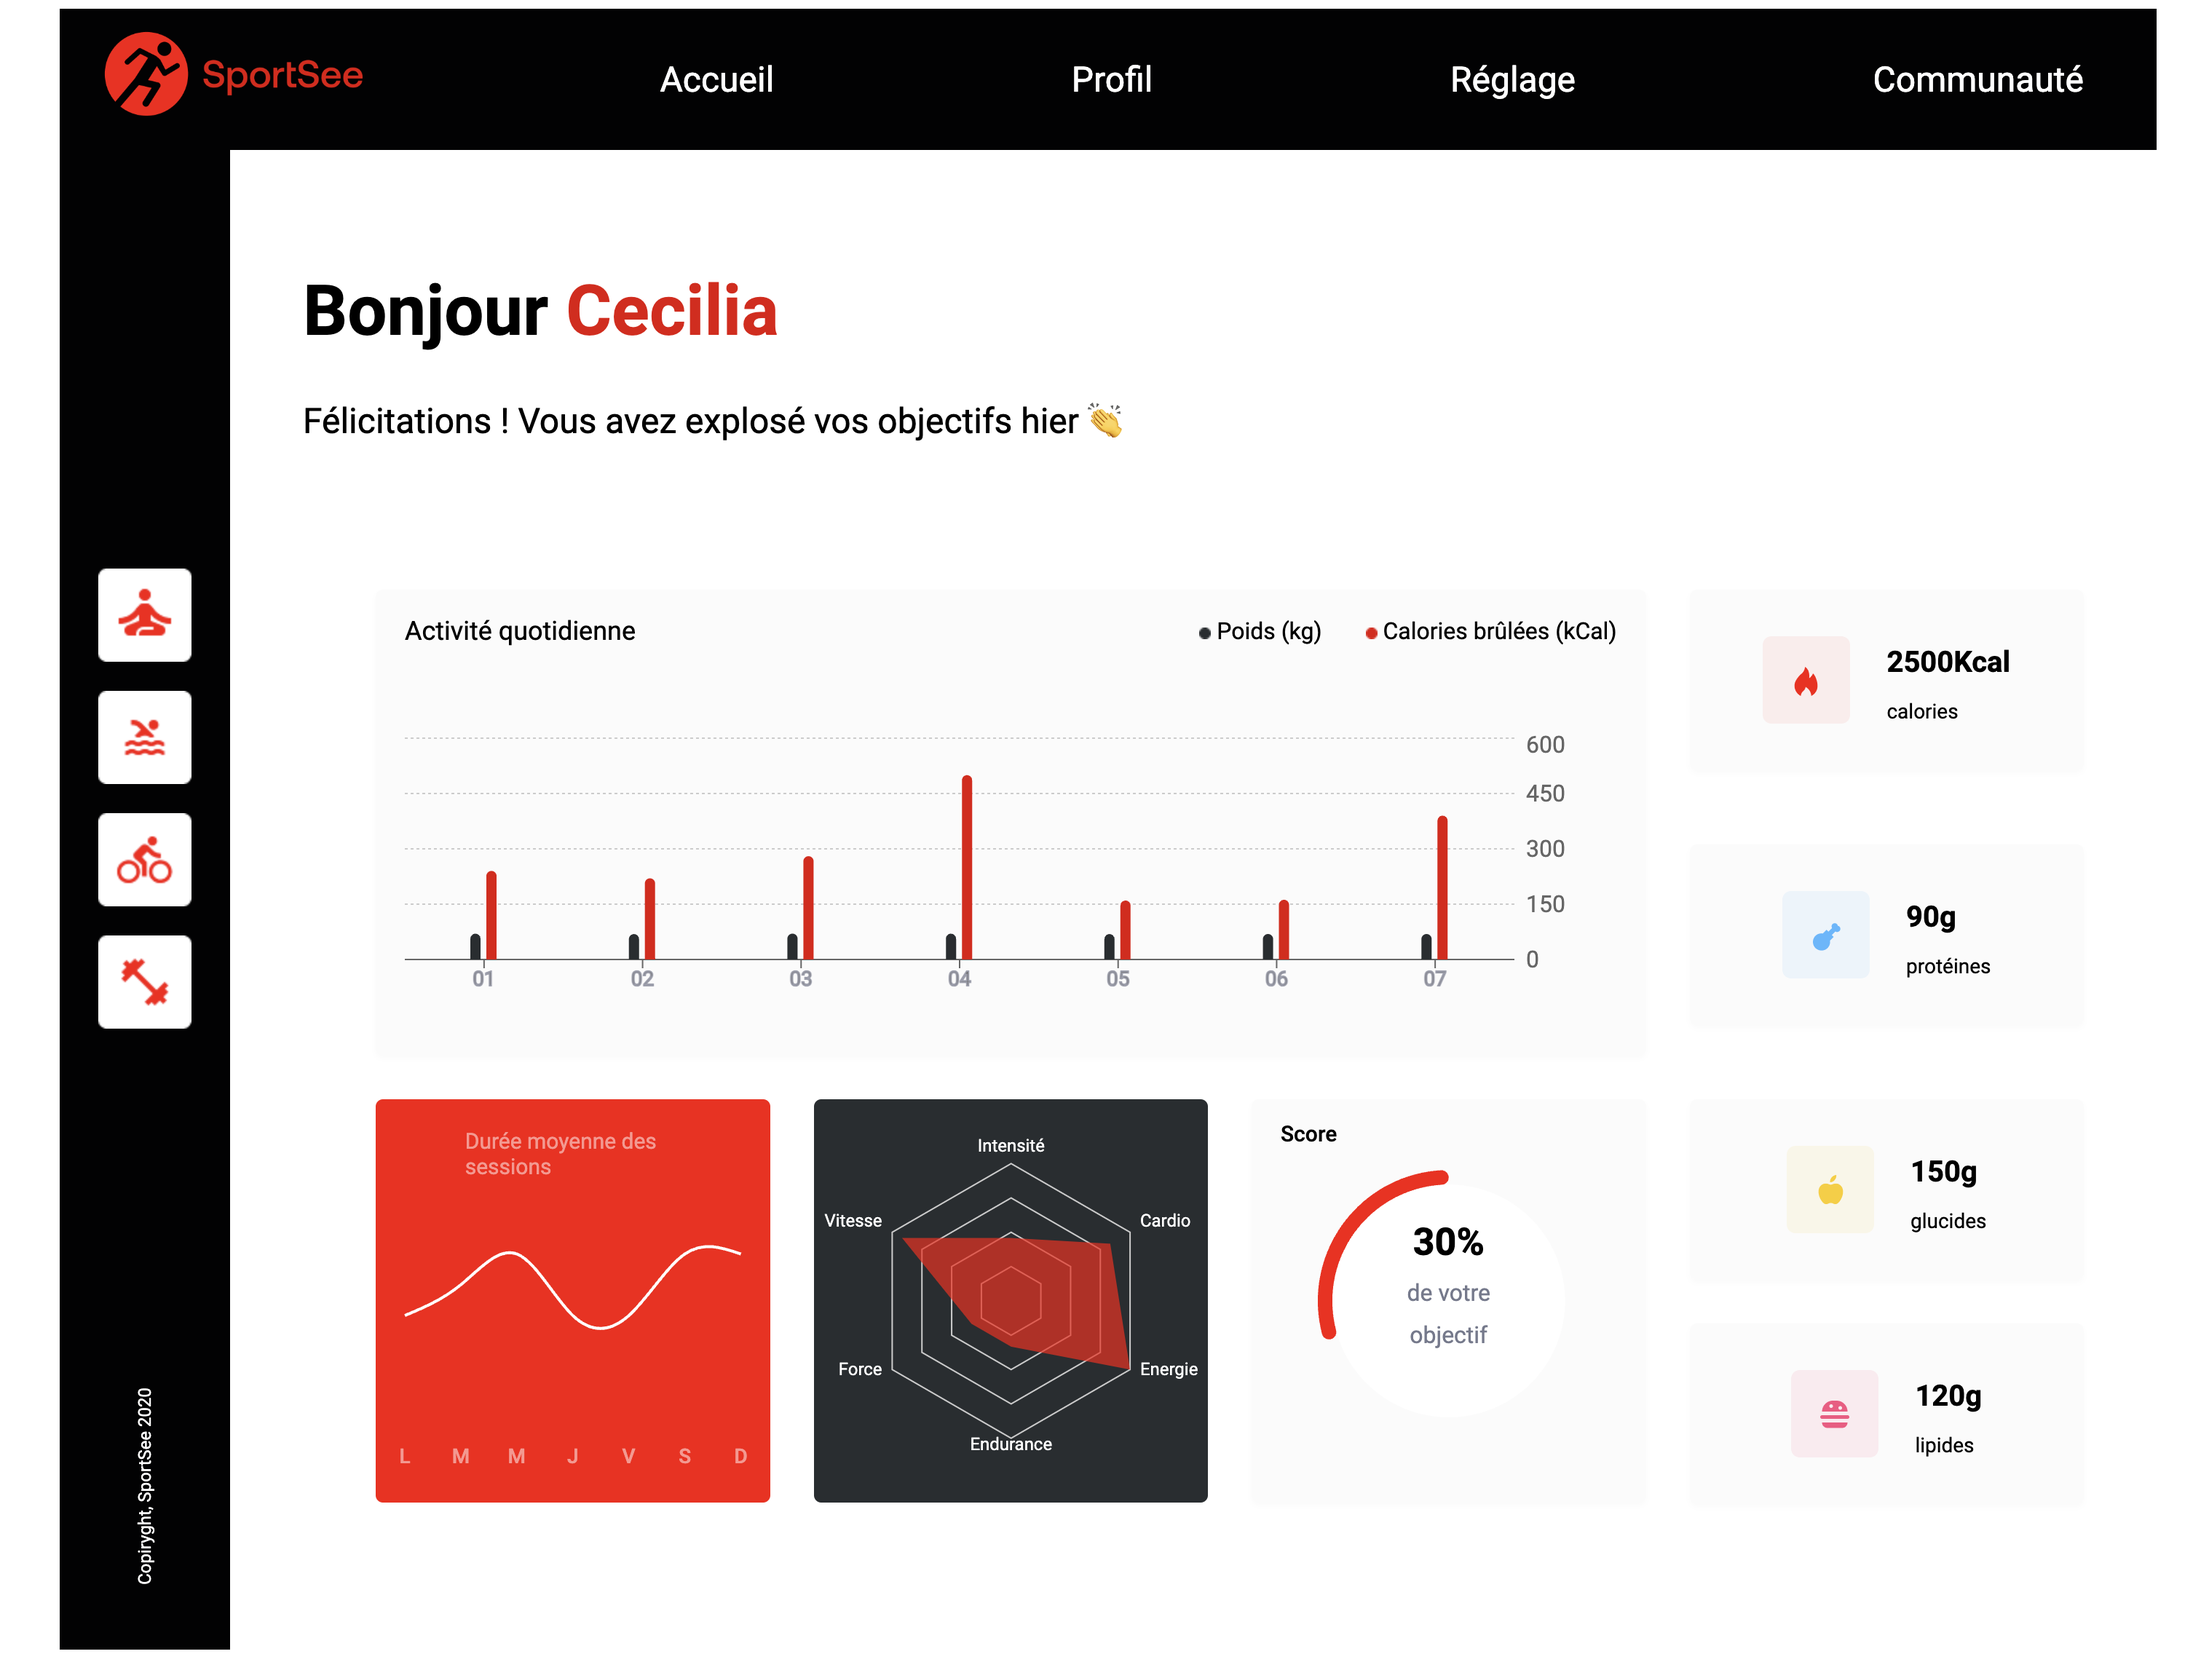
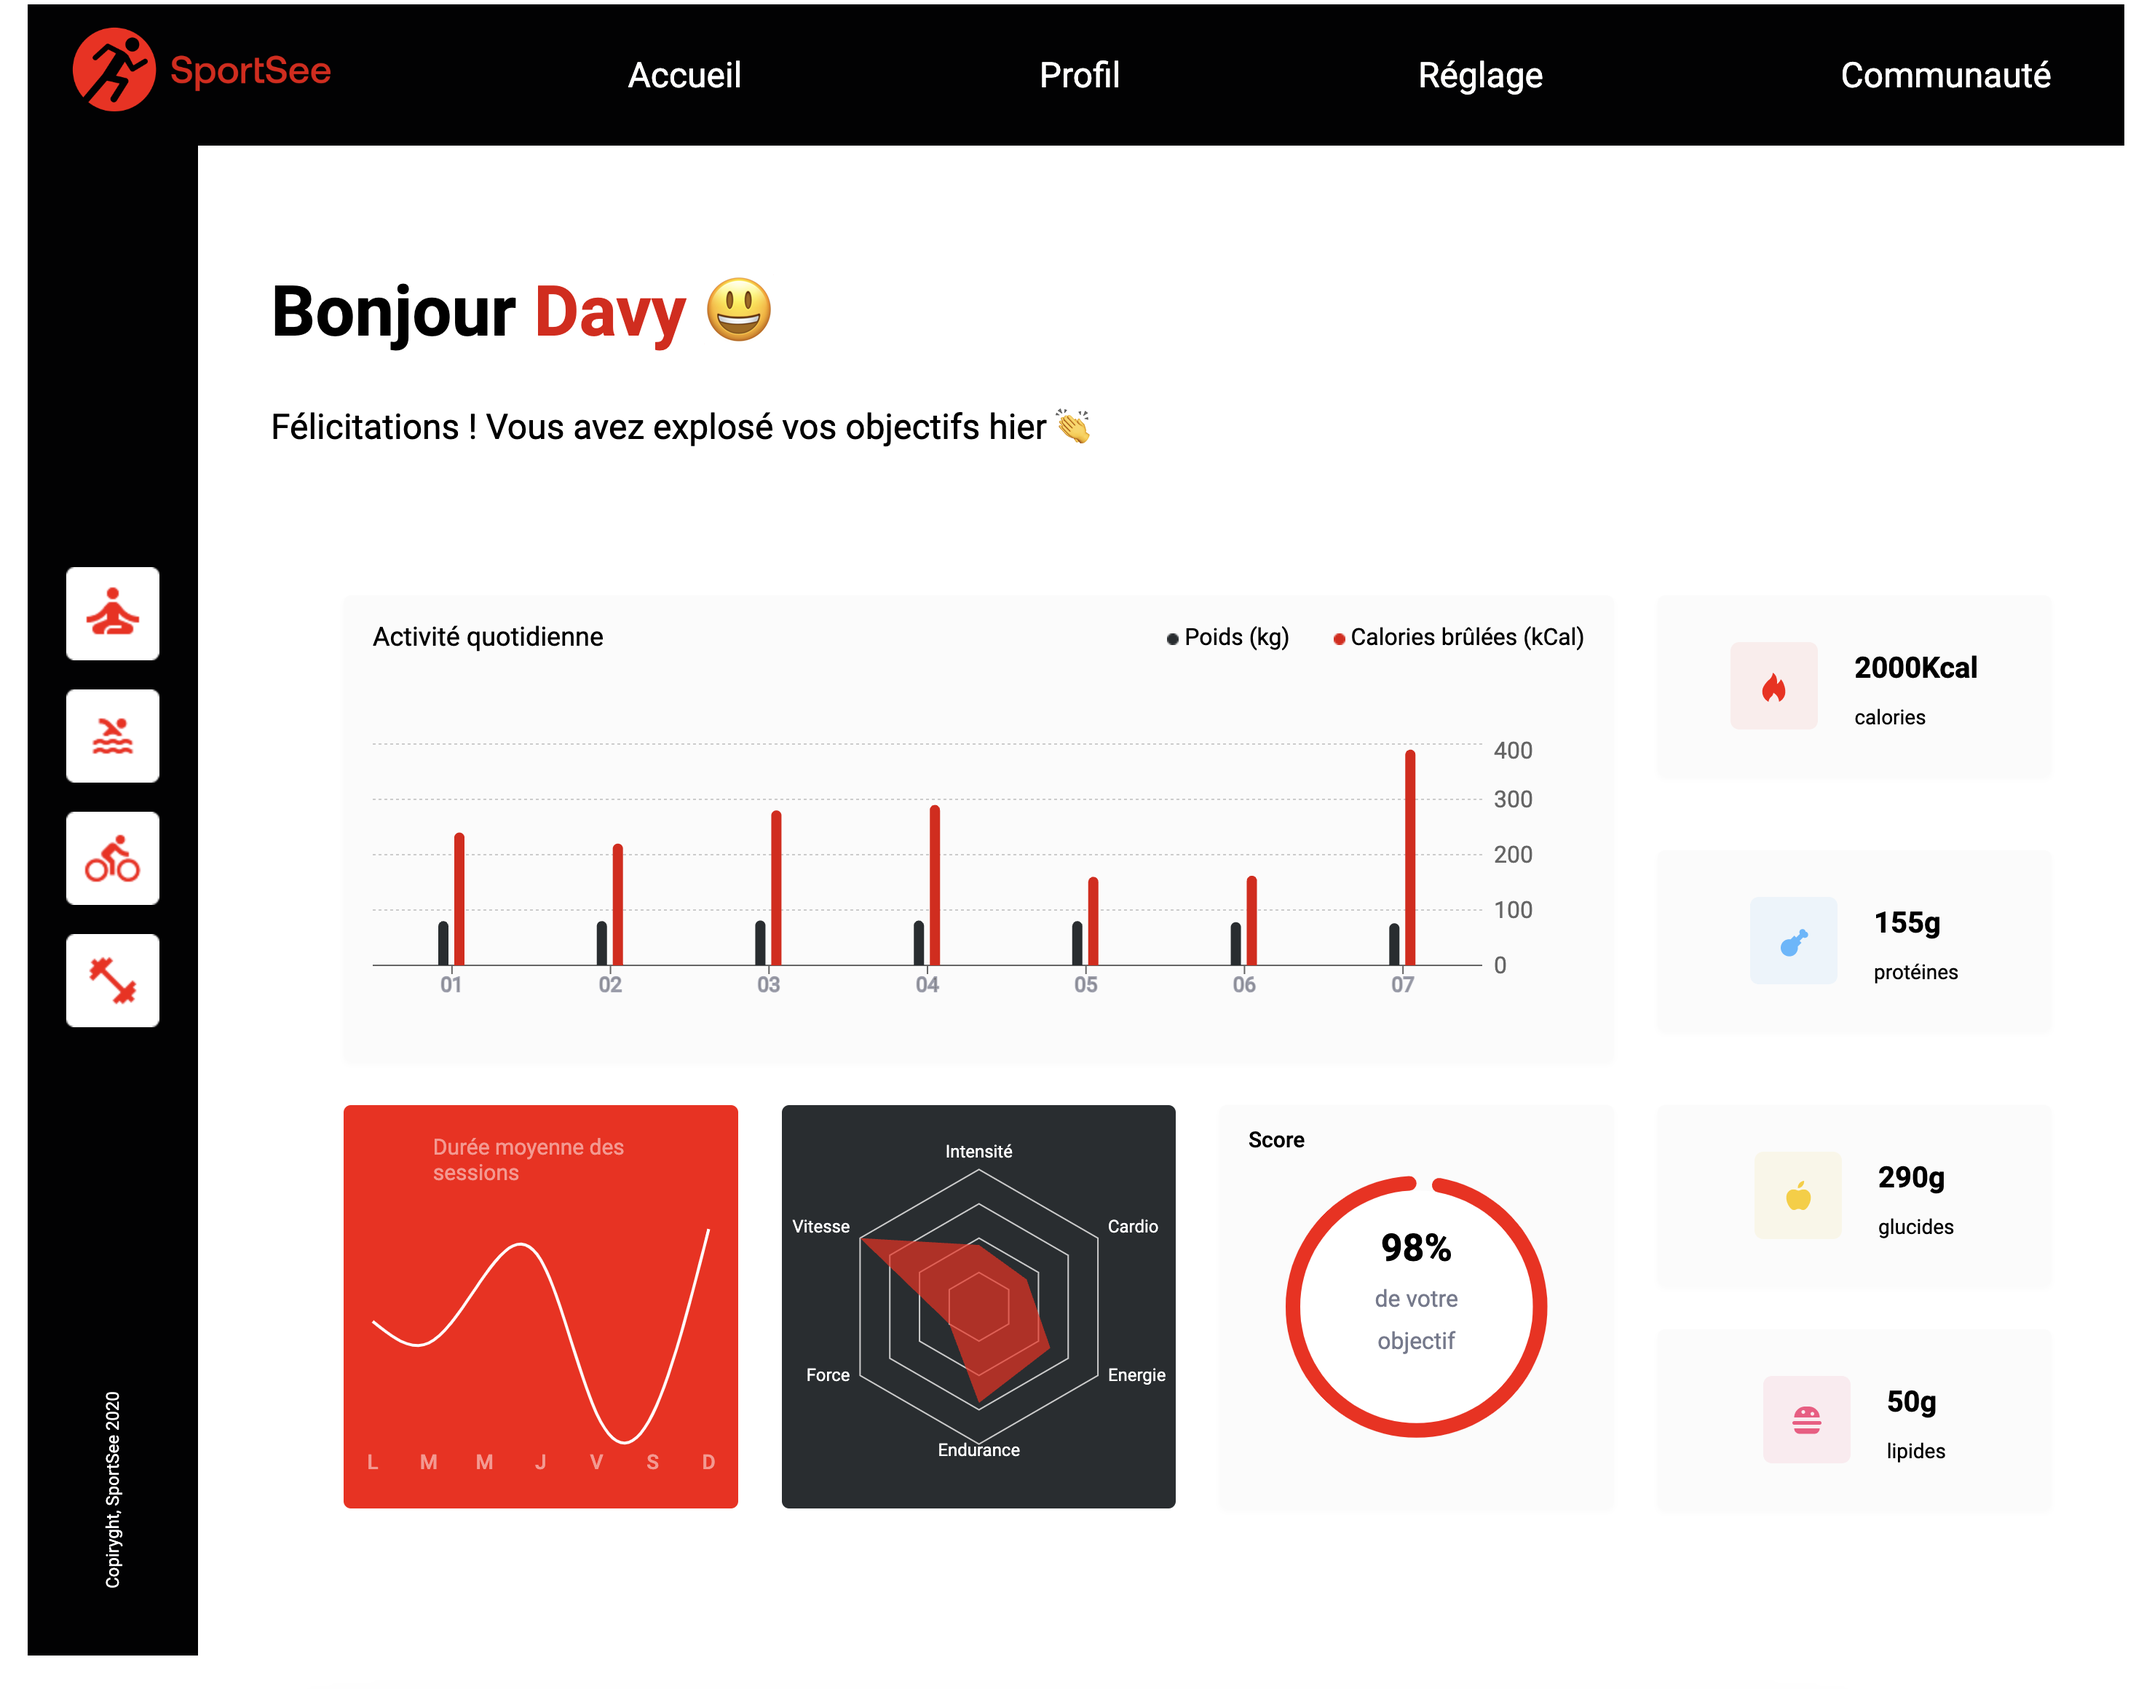
personnalisation du mock

diff --git a/src/service/hook/useUserData.js b/src/service/hook/useUserData.js
@@ -8,7 +8,8 @@ const useUserData = (userId) => {
   useEffect(() => {
     const fetchData = async () => {
       const sourceSelect = [new MockSource(), new ApiSource()];
-      const indexSelect = 1;
+      // const indexSelect = 0;           //source mock
+      const indexSelect = 1;        //source api
 
       try {
         const userData = await sourceSelect[indexSelect].getUser(userId);
